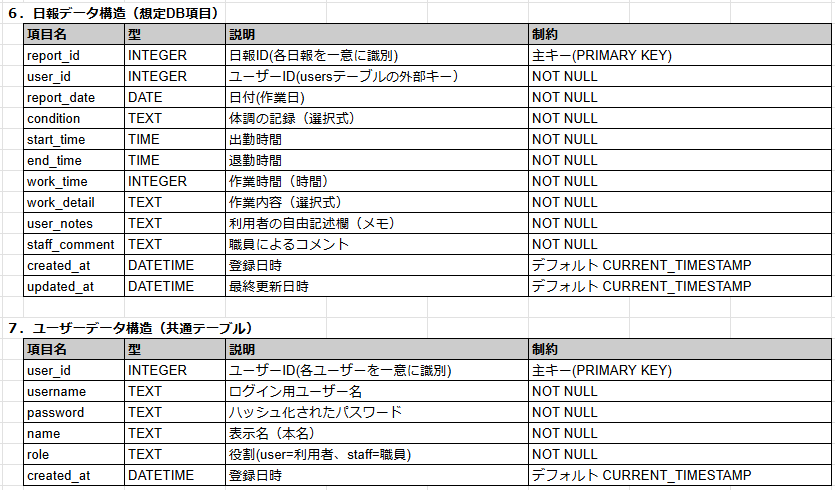
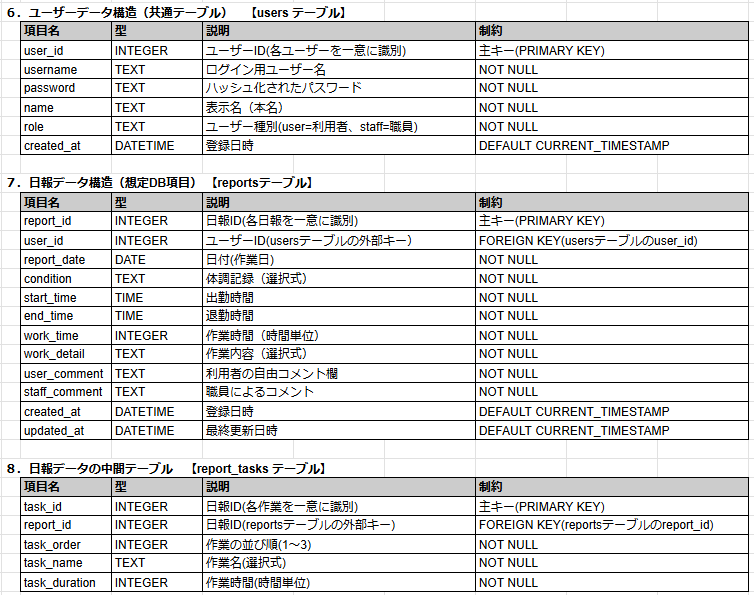
5/20データ構造図更新

diff --git a/er_diagram.md b/er_diagram.md
@@ -1,0 +1,37 @@
+```mermaid
+erDiagram
+    USERS {
+        int user_id PK
+        string username
+        string password
+        string name
+        string role
+        datetime created_at
+    }
+
+    REPORTS {
+        int report_id PK
+        int user_id FK
+        date report_date
+        string condition
+        time start_time
+        time end_time
+        float work_time
+        string work_detail
+        string work_comment
+        string staff_comment
+        datetime created_at
+        datetime updated_at
+    }
+
+    REPORT_TASKS {
+        int task_id PK
+        int report_id FK
+        int task_order
+        string task_name
+        float task_duration
+    }
+
+    USERS ||--o{ REPORTS : "has"
+    REPORTS ||--o{ REPORT_TASKS : "has"
+```
